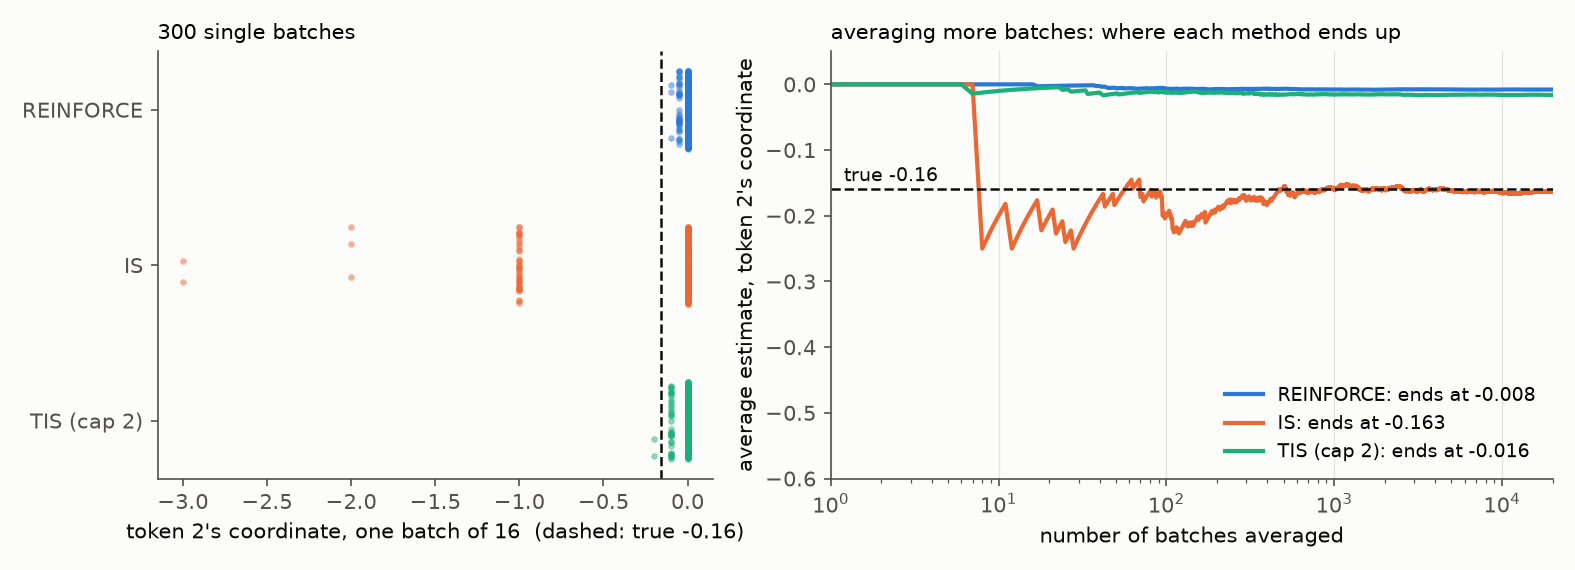
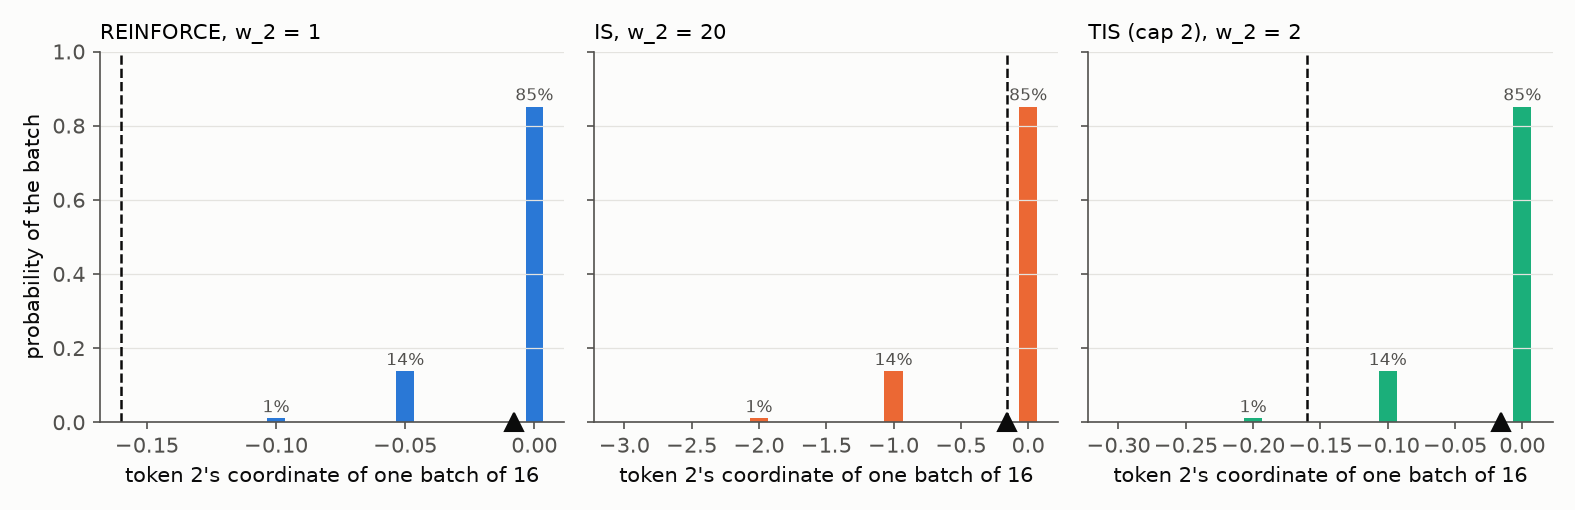
Post: name the two sampling mismatches (engine vs trainer, old vs new parameters) in section 6; PPO's band stated

diff --git a/rl-corrections/bias_variance_figs.py b/rl-corrections/bias_variance_figs.py
@@ -38,8 +38,8 @@ def weights(method, p_engine):
     return r
   if method == 'TIS (cap 2)':
     return r.clamp(max=2.0)
-  if method == 'PPO (ratio to engine)':
-    return torch.where(r > 1.28, 0.0, r)               # A > 0 only matters on token 2
+  if method == 'PPO (eps 0.2)':
+    return torch.where(r > 1.2, 0.0, r)                # A > 0 only matters on token 2
   if method == 'DPPO (delta 0.15)':
     return torch.where((r > 1) & (moved > 0.15), 0.0, r)
   raise ValueError(method)
@@ -131,53 +131,34 @@ axes[1].set_xlabel(f"token 2's coordinate of the batch estimate (B = {B}, {N_BAT
 fig.tight_layout()
 fig.savefig('figs/bv_baseline.png', dpi=150)
 
-# Figure 2: three weights, far engine. Left: individual batches. Right: what averaging many batches converges to.
+# Figure 4: three weights, far engine. The exact distribution of one batch estimate (token 2's coordinate).
+# A batch of B rows from the far engine holds k token-2 rows with k ~ Binomial(B, 0.01); its estimate is w_2 * k / B * v.
 methods = ['REINFORCE', 'IS', 'TIS (cap 2)']
 colors = [BLUE, ORANGE, AQUA]
-fig, (ax_l, ax_r) = plt.subplots(1, 2, figsize=(10.5, 3.8), gridspec_kw={'width_ratios': [1, 1.3]})
-n_show = 300
-for i, (m, color) in enumerate(zip(methods, colors)):
-  w = weights(m, ENGINES['far'])
-  est = batches(w, ENGINES['far'])                                   # [N_BATCHES]
-  jitter = (torch.rand(n_show) - 0.5) * 0.5                           # [n_show]
-  ax_l.scatter(est[:n_show].numpy(), (i + jitter).numpy(), s=10, color=color, alpha=0.5, linewidths=0)
-  running = est.cumsum(0) / torch.arange(1, len(est) + 1)            # [N_BATCHES]
-  ax_r.plot(torch.arange(1, len(est) + 1).numpy(), running.numpy(), color=color, linewidth=2, label=f'{m}: ends at {running[-1].item():.3f}')
-for ax in (ax_l, ax_r):
-  ax.grid(axis='y' if ax is ax_r else 'x')
-ax_l.axvline(TRUE2, color=INK, linestyle='--', linewidth=1.2)
-ax_l.set_yticks(range(3), methods)
-ax_l.invert_yaxis()
-ax_l.grid(axis='y', visible=False)
-ax_l.set_xlabel(f"token 2's coordinate, one batch of {B}  (dashed: true -0.16)")
-ax_l.set_title(f'{n_show} single batches', fontsize=10, loc='left')
-ax_r.axhline(TRUE2, color=INK, linestyle='--', linewidth=1.2)
-ax_r.set_xscale('log')
-ax_r.set_xlim(1, N_BATCHES)
-ax_r.legend(frameon=False, loc='lower right', fontsize=9)
-ax_r.annotate('true -0.16', (1.2, TRUE2), xytext=(0, 4), textcoords='offset points', fontsize=9, color=INK)
-ax_r.set_ylim(-0.6, 0.05)
-ax_r.set_xlabel('number of batches averaged')
-ax_r.set_ylabel("average estimate, token 2's coordinate")
-ax_r.set_title('averaging more batches: where each method ends up', fontsize=10, loc='left')
+q = ENGINES['far'][2].item()
+k = torch.arange(0, 4)                                                            # [4]  token-2 rows in the batch
+pk = torch.distributions.Binomial(B, torch.tensor(q)).log_prob(k.float()).exp()   # [4]  P(k)
+fig, axes = plt.subplots(1, 3, figsize=(10.5, 3.4), sharey=True)
+for ax, m, color in zip(axes, methods, colors):
+  w2 = weights(m, ENGINES['far'])[2].item()
+  est = w2 * k / B * rows(torch.ones(V))[2, 2]                                    # [4]  token 2's coordinate of the estimate
+  mean = (pk * est).sum().item()
+  ax.bar(est.numpy(), pk.numpy(), width=0.045 * (est[-1] - est[0]).abs().item(), color=color)
+  for e, pr in zip(est.tolist(), pk.tolist()):
+    if pr < 0.005: continue
+    ax.annotate(f'{pr:.0%}', (e, pr), xytext=(0, 3), textcoords='offset points', ha='center', fontsize=8, color=MUTED)
+  ax.axvline(TRUE2, color=INK, linestyle='--', linewidth=1.2)
+  ax.plot(mean, 0, marker='^', color=INK, markersize=9, clip_on=False, zorder=5)
+  ax.set_title(f'{m}, w_2 = {w2:g}', fontsize=10, loc='left')
+  ax.set_xlabel(f"token 2's coordinate of one batch of {B}")
+  ax.grid(axis='x', visible=False)
+  ax.set_ylim(0, 1)
+axes[0].set_ylabel('probability of the batch')
 fig.tight_layout()
 fig.savefig('figs/bv_weights_far.png', dpi=150)
+print('far engine, B=16: P(k token-2 rows)', [f'{v:.3f}' for v in pk.tolist()])
 
-# Figure 3: error = ||bias||^2 + variance / B, per method, close and far engine.
-all_methods = ['REINFORCE', 'IS', 'TIS (cap 2)', 'PPO (ratio to engine)', 'DPPO (delta 0.15)']
-fig, axes = plt.subplots(1, 2, figsize=(10, 3.8))
-for ax, (name, p_engine) in zip(axes, ENGINES.items()):
-  b2, v = zip(*[(bias2, var / B) for bias2, var in (exact(weights(m, p_engine), p_engine) for m in all_methods)])
-  x = range(len(all_methods))
-  ax.bar(x, b2, color=BLUE, width=0.6, label='||bias||²')
-  ax.bar(x, v, bottom=b2, color=ORANGE, width=0.6, label=f'variance / B', edgecolor='#fcfcfb', linewidth=2)
-  ax.set_xticks(list(x), [m.replace(' (', '\n(') for m in all_methods], fontsize=8)
-  ax.set_title(f'{name} engine  (p_engine = {[round(v, 2) for v in p_engine.tolist()]})', fontsize=10, loc='left')
-  ax.grid(axis='x', visible=False)
-axes[0].set_ylabel(f'squared error of the batch estimate (B = {B})')
-axes[0].legend(frameon=False)
-fig.tight_layout()
-fig.savefig('figs/bv_methods.png', dpi=150)
+all_methods = ['REINFORCE', 'IS', 'TIS (cap 2)', 'PPO (eps 0.2)', 'DPPO (delta 0.15)']
 
 # Figure 5: the cap trade, far engine. Error vs cap for two batch sizes.
 caps = torch.logspace(0, torch.log10(torch.tensor(20.0)), 80)   # [80]
@@ -191,6 +172,8 @@ for ax, batch in zip(axes, [16, 256]):
   ax.plot(caps.numpy(), v.numpy(), color=ORANGE, linewidth=2, label='variance / B')
   ax.plot(caps.numpy(), (b2 + v).numpy(), color=AQUA, linewidth=2, label='error')
   best = (b2 + v).argmin()
+  print(f'cap trade B={batch}: best cap {caps[best].item():.1f}, error there {(b2 + v)[best].item():.4f}, '
+        f'error at cap 2 {(b2 + v)[(caps - 2).abs().argmin()].item():.4f}, at cap 4 {(b2 + v)[(caps - 4).abs().argmin()].item():.4f}, uncapped {(b2 + v)[-1].item():.4f}')
   ax.annotate(f'best cap {caps[best].item():.1f}', (caps[best].item(), (b2 + v)[best].item()), fontsize=9,
               xytext=(0, 18), textcoords='offset points', ha='center')
   ax.set_xscale('log')

diff --git a/rl-corrections/bias_variance.md b/rl-corrections/bias_variance.md
@@ -22,16 +22,19 @@ number can be checked by hand.
 
 ## 1. The question
 
-RL for language models estimates the policy gradient from a sampled batch. The tokens are usually written by an
-inference engine rather than the model being trained: a separate copy that is a few updates behind and numerically
-slightly different [[1]](#ref-1)[[2]](#ref-2). Importance sampling (IS), truncated IS (TIS), PPO and DPPO each modify
-the estimator to cope with that mismatch. This post measures, on a toy where everything is exact, how far each
-modified estimator lands from the true gradient, split into bias and variance.
+RL for language models estimates the policy gradient from a sampled batch. The tokens in the batch were rarely
+written by the model being trained. They come from an inference engine that is numerically different from the
+trainer [[1]](#ref-1)[[2]](#ref-2), and the trainer takes several steps on one batch, so by the second step its
+parameters are no longer the ones that wrote the tokens [[14]](#ref-14). Importance sampling (IS), truncated IS
+(TIS), CISPO, PPO, GSPO and DPPO each modify the per-token weight to cope with that; GRPO and RLOO modify the
+advantage. This post measures, on a toy where everything is exact, how far each estimator lands from the true
+gradient, split into bias and variance.
 
 ## 2. The update
 
 Let $z \in \mathbb{R}^V$ be the logits at one position, $p = \operatorname{softmax}(z)$ the trained model's
-distribution, and $p_{\text{engine}}$ the distribution of the engine that samples. For a sampled token $y$ with
+distribution, and $p_{\text{engine}}$ the distribution that actually wrote the tokens (section 6 says what it is in
+each method). For a sampled token $y$ with
 one-hot $e_y$, advantage $A$ and per-token weight $w$, the policy-gradient update on the logits is [[3]](#ref-3)
 
 $$\text{dlogits} = w\,A\,(p - e_y).$$
@@ -199,9 +202,19 @@ column), and that is zero because $e_y$ lands on each token as often as $p$ says
 *Figure 3: 20,000 batches of 16, model sampling itself, token 2's coordinate of the batch estimate. Both center on
 the true value; $b = 0.2$ is narrower.*
 
-## 6. When the engine writes the tokens
+## 6. When the model did not write the tokens
 
-Now $y \sim p_{\text{engine}}$ while the target is still $g$. Two engines, $b = 0$:
+Sections 4 and 5 assumed $y \sim p$. In training the tokens come from a distribution that differs from $p$ in one
+of two ways. Both show up as the same thing in the row: a ratio $\rho_y = p_y / p_{\text{engine},y}$ that is not 1.
+
+| mismatch | what wrote the tokens | why it differs from $p$ | methods whose ratio is against it |
+|---|---|---|---|
+| engine vs trainer | the inference engine, same parameters | different kernels, precision and batching [[1]](#ref-1) | IS, TIS, DPPO; REINFORCE ignores it |
+| old vs new parameters | the trainer at $\theta_{\text{old}}$, the parameters when the batch was sampled | several optimizer steps are taken on one batch; after the first, $\theta$ has moved [[14]](#ref-14) | PPO, CISPO, GSPO |
+
+The toy needs only $p$ and the distribution that wrote the tokens, so one symbol serves both: $p_{\text{engine}}$
+below is the engine for the first group and $p_{\theta_{\text{old}}}$ for the second. The arithmetic is identical.
+The two mismatches differ in what happens next, which is section 7. Two samplers, $b = 0$:
 
 ```python
 p     = [0.5,  0.3,  0.2 ]    # model
@@ -297,10 +310,11 @@ takes hundreds of batches to settle on it (variance).*
 
 Two more choices of $w$, both built on the ratio $\rho_y = p_y / p_{\text{engine},y}$:
 
-- **PPO** [[14]](#ref-14), with the ratio taken against the engine, sets $w = 0$ when $\rho_y$ leaves
-  $[1 - \epsilon, 1 + \epsilon]$ in the direction $A$ favors, and $w = \rho_y$ otherwise.
-- **DPPO** [[2]](#ref-2) sets $w = 0$ when $|p_y - p_{\text{engine},y}| > \delta$ (here $\delta = 0.15$) in the
-  direction $A$ favors, and $w = \rho_y$ otherwise.
+- **PPO** [[14]](#ref-14), ratio against $\theta_{\text{old}}$, sets $w = 0$ when $\rho_y$ leaves
+  $[1 - \epsilon, 1 + \epsilon]$ in the direction $A$ favors, and $w = \rho_y$ otherwise. $\epsilon = 0.2$
+  throughout, the paper's default.
+- **DPPO** [[2]](#ref-2), ratio against the engine, sets $w = 0$ when $|p_y - p_{\text{engine},y}| > \delta$ (here
+  $\delta = 0.15$) in the direction $A$ favors, and $w = \rho_y$ otherwise.
 
 ![methods](figs/bv_methods.png)
 
@@ -315,7 +329,7 @@ of $v$, so one coefficient gives it.
 |---|---|---|---|---|---|---|
 | close | REINFORCE | 1 | $-0.10\,v$ | 0.0098 | 0.088 | 0.015 |
 | close | IS, TIS, DPPO | 2 | 0 | 0 | 0.353 | 0.022 |
-| close | PPO (ratio to engine) | 0 | $-g$ | 0.0392 | 0 | 0.039 |
+| close | PPO | 0 | $-g$ | 0.0392 | 0 | 0.039 |
 | far | REINFORCE | 1 | $-0.19\,v$ | 0.0354 | 0.010 | 0.036 |
 | far | IS | 20 | 0 | 0 | 3.881 | 0.243 |
 | far | TIS | 2 | $-0.18\,v$ | 0.0318 | 0.039 | 0.034 |
@@ -398,8 +412,8 @@ drops both. The toy has one prompt, so its std factor is a constant and shows no
 
 ### 8.2 The weight
 
-$w$ is a function of $\rho = p_y / p_{\text{engine},y}$, taken against the engine as in section 6.3. In practice
-CISPO, PPO and GSPO take it against the recompute, the trainer's own log-probs before the step.
+$w$ is a function of $\rho = p_y / p_{\text{engine},y}$, against the engine for IS, TIS and DPPO and against
+$\theta_{\text{old}}$ for CISPO, PPO and GSPO (section 6).
 
 - **REINFORCE**, $w = 1$: the lowest variance; bias grows with TV.
 - **IS**, $w = \rho$: no bias; variance grows with $\chi^2$, dominated by the rare row's $p_2^2 / p_{\text{engine},2}$.
@@ -424,7 +438,7 @@ Table 4: Table 1 with CISPO (cap 4) added and the error at a larger batch ($b = 
 |---|---|---|---|---|---|---|---|
 | close | REINFORCE | 1 | $-0.10\,v$ | 0.0098 | 0.088 | 0.015 | 0.010 |
 | close | IS, TIS, CISPO, DPPO | 2 | 0 | 0 | 0.353 | 0.022 | 0.0014 |
-| close | PPO (ratio to engine) | 0 | $-g$ | 0.0392 | 0 | 0.039 | 0.039 |
+| close | PPO | 0 | $-g$ | 0.0392 | 0 | 0.039 | 0.039 |
 | far | REINFORCE | 1 | $-0.19\,v$ | 0.0354 | 0.010 | 0.036 | 0.035 |
 | far | IS | 20 | 0 | 0 | 3.881 | 0.243 | 0.015 |
 | far | TIS (cap 2) | 2 | $-0.18\,v$ | 0.0318 | 0.039 | 0.034 | 0.032 |
